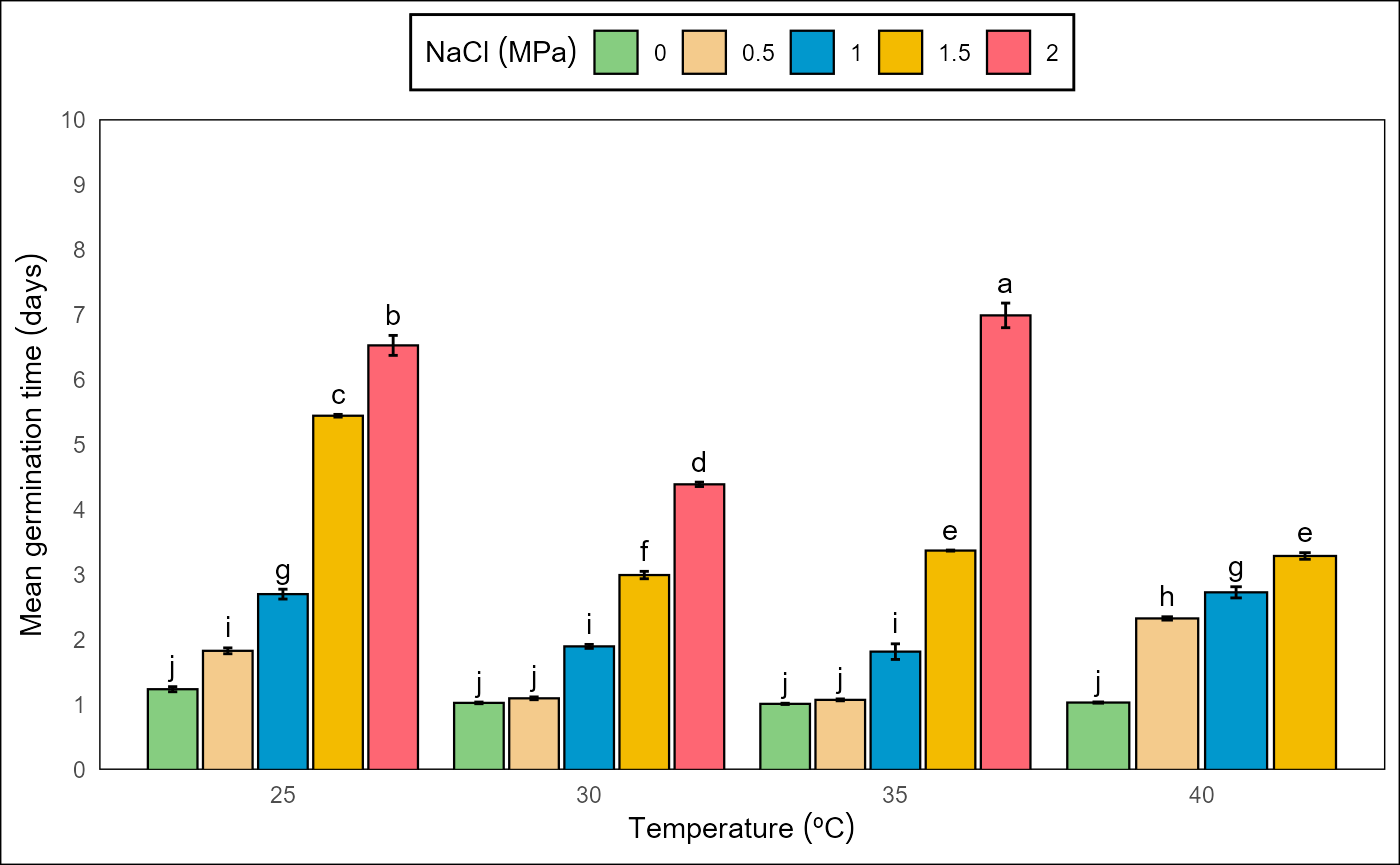
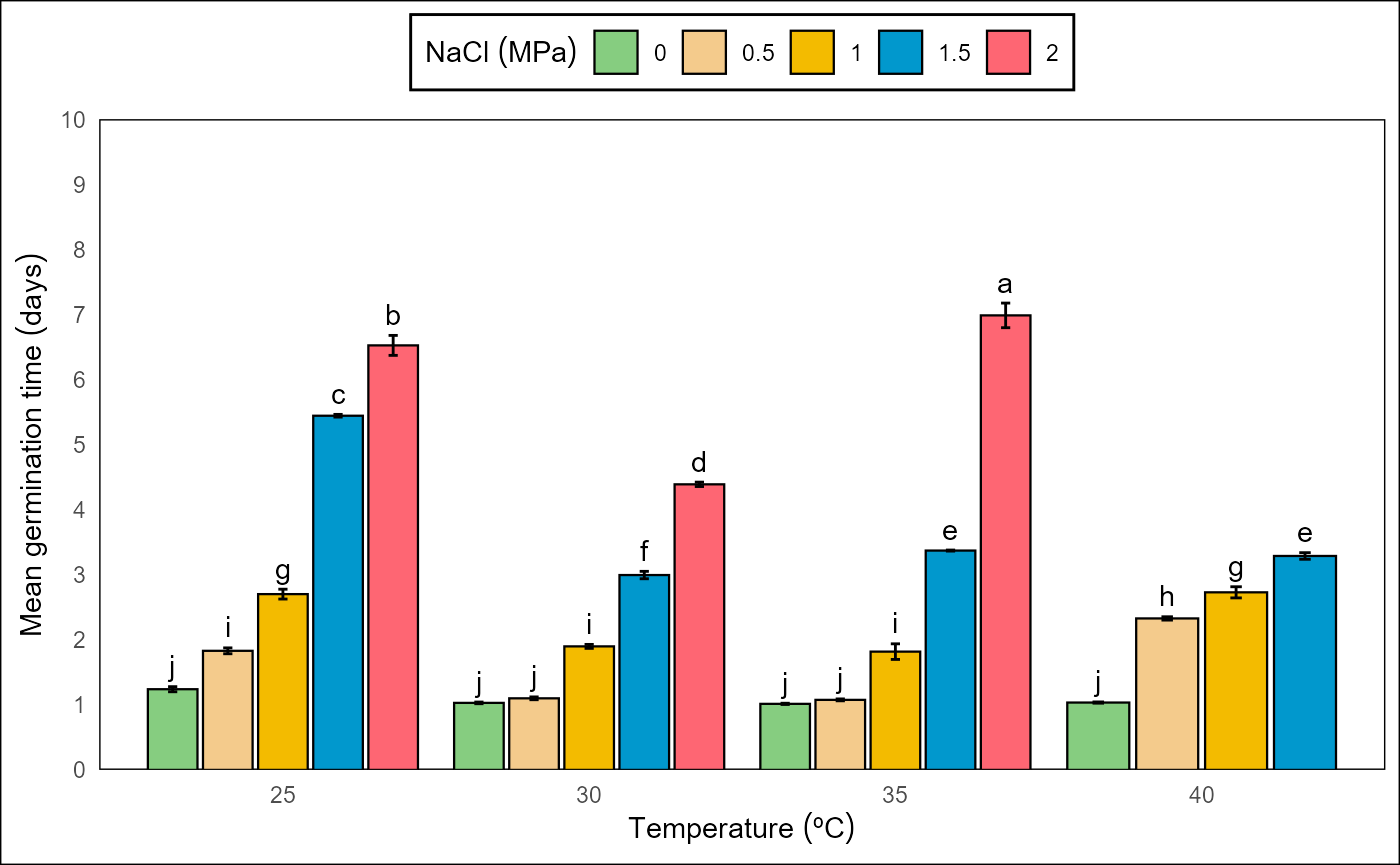
cran checks

diff --git a/docs/articles/GerminaR.html b/docs/articles/GerminaR.html
@@ -163,11 +163,12 @@
 <code class="sourceCode R"><span class="co"># Install packages and dependencies</span>
 
 <span class="kw"><a href="https://rdrr.io/r/base/library.html">library</a></span><span class="op">(</span><span class="va"><a href="http://germinar.inkaverse.com/">GerminaR</a></span><span class="op">)</span>
+<span class="kw"><a href="https://rdrr.io/r/base/library.html">library</a></span><span class="op">(</span><span class="va"><a href="https://dplyr.tidyverse.org">dplyr</a></span><span class="op">)</span>
 
 <span class="co"># load data</span>
 
 <span class="va">fb</span> <span class="op">&lt;-</span> <span class="va">prosopis</span> <span class="op">%&gt;%</span> 
-   <span class="fu">dplyr</span><span class="fu">::</span><span class="fu"><a href="https://dplyr.tidyverse.org/reference/mutate.html">mutate</a></span><span class="op">(</span><span class="fu"><a href="https://dplyr.tidyverse.org/reference/across.html">across</a></span><span class="op">(</span><span class="fu"><a href="https://rdrr.io/r/base/c.html">c</a></span><span class="op">(</span><span class="va">nacl</span>, <span class="va">temp</span>, <span class="va">rep</span><span class="op">)</span>, <span class="va">as.factor</span><span class="op">)</span><span class="op">)</span>
+   <span class="fu"><a href="https://dplyr.tidyverse.org/reference/mutate.html">mutate</a></span><span class="op">(</span><span class="fu"><a href="https://dplyr.tidyverse.org/reference/across.html">across</a></span><span class="op">(</span><span class="fu"><a href="https://rdrr.io/r/base/c.html">c</a></span><span class="op">(</span><span class="va">nacl</span>, <span class="va">temp</span>, <span class="va">rep</span><span class="op">)</span>, <span class="va">as.factor</span><span class="op">)</span><span class="op">)</span>
 
 <span class="co"># Prosopis data set</span>
 
@@ -383,7 +384,7 @@
 <span class="va">gsm</span> <span class="op">%&gt;%</span> 
   <span class="fu"><a href="https://rdrr.io/r/utils/head.html">head</a></span><span class="op">(</span><span class="fl">10</span><span class="op">)</span> <span class="op">%&gt;%</span> 
   <span class="fu"><a href="https://dplyr.tidyverse.org/reference/mutate.html">mutate</a></span><span class="op">(</span><span class="fu"><a href="https://dplyr.tidyverse.org/reference/across.html">across</a></span><span class="op">(</span><span class="fu">where</span><span class="op">(</span><span class="va">is.numeric</span><span class="op">)</span>, <span class="op">~</span><span class="fu"><a href="https://rdrr.io/r/base/Round.html">round</a></span><span class="op">(</span><span class="va">.</span>, <span class="fl">2</span><span class="op">)</span><span class="op">)</span><span class="op">)</span> <span class="op">%&gt;%</span> 
-   <span class="fu">kable</span><span class="op">(</span>caption <span class="op">=</span> <span class="st">"Function ger_summary performe ten germination indices"</span><span class="op">)</span></code></pre></div>
+  <span class="fu">kable</span><span class="op">(</span>caption <span class="op">=</span> <span class="st">"Function ger_summary performe ten germination indices"</span><span class="op">)</span></code></pre></div>
 <table class="table">
 <caption>Function ger_summary performe ten germination indices</caption>
 <thead><tr class="header">

diff --git a/docs/reference/fplot.html b/docs/reference/fplot.html
@@ -271,7 +271,7 @@
     </tr>
     <tr>
       <th>color</th>
-      <td><p>colored figure (TRUE), otherwise black &amp; white (FALSE)</p></td>
+      <td><p>colored figure c(TRUE, FALSE) or vector with the color.</p></td>
     </tr>
     <tr>
       <th>opt</th>
@@ -304,29 +304,16 @@
 <span class='va'>plotdt</span> <span class='op'>&lt;-</span> <span class='va'>mc</span><span class='op'>$</span><span class='va'>table</span>
                     
  <span class='fu'>fplot</span><span class='op'>(</span>data <span class='op'>=</span> <span class='va'>plotdt</span>
-       , type <span class='op'>=</span> <span class='st'>"line"</span>
+       , type <span class='op'>=</span> <span class='st'>"bar"</span>
        , x <span class='op'>=</span> <span class='st'>"temp"</span>
        , y <span class='op'>=</span> <span class='st'>"grp"</span>
        , group <span class='op'>=</span> <span class='st'>"nacl"</span>
-       , sig <span class='op'>=</span> <span class='st'>"sig"</span>
+       , sig <span class='op'>=</span> <span class='st'>"grp"</span>
        , error <span class='op'>=</span> <span class='st'>"ste"</span>
-       , color <span class='op'>=</span> <span class='cn'>F</span>
+       , color <span class='op'>=</span> <span class='cn'>T</span>
        , ylimits <span class='op'>=</span> <span class='fu'><a href='https://rdrr.io/r/base/c.html'>c</a></span><span class='op'>(</span><span class='fl'>0</span>, <span class='fl'>120</span>, <span class='fl'>20</span><span class='op'>)</span>
-       , xtext <span class='op'>=</span> <span class='fu'><a href='https://rdrr.io/r/base/c.html'>c</a></span><span class='op'>(</span><span class='fl'>1</span><span class='op'>:</span><span class='fl'>5</span><span class='op'>)</span>
-       , gtext <span class='op'>=</span> <span class='fu'><a href='https://rdrr.io/r/base/c.html'>c</a></span><span class='op'>(</span><span class='fl'>1</span><span class='op'>:</span><span class='fl'>5</span><span class='op'>)</span>
        <span class='op'>)</span>
        
- <span class='fu'>fplot</span><span class='op'>(</span>data <span class='op'>=</span> <span class='va'>plotdt</span>
-       , type <span class='op'>=</span> <span class='st'>"li"</span>
-       , x <span class='op'>=</span> <span class='st'>"temp"</span>
-       , y <span class='op'>=</span> <span class='st'>"grp"</span>
-       , group <span class='op'>=</span> <span class='st'>"nacl"</span>
-       , sig <span class='op'>=</span> <span class='st'>"sig"</span>
-       , error <span class='op'>=</span> <span class='st'>"ste"</span>
-       , color <span class='op'>=</span> <span class='cn'>F</span>
-       , ylimits <span class='op'>=</span> <span class='fu'><a href='https://rdrr.io/r/base/c.html'>c</a></span><span class='op'>(</span><span class='fl'>0</span>, <span class='fl'>120</span>, <span class='fl'>20</span><span class='op'>)</span>
-       <span class='op'>)</span>
-                   
 <span class='op'>}</span> 
 
 </div></pre>

diff --git a/docs/news/index.html b/docs/news/index.html
@@ -189,7 +189,12 @@
 <em>Package</em>
 <ul>
 <li>
-<code><a href="../reference/fplot.html">fplot()</a></code> absolute values to ybrakes</li>
+<code><a href="../reference/fplot.html">fplot()</a></code>
+<ul>
+<li>Absolute values to ybrakes</li>
+<li>Include color using vectors</li>
+</ul>
+</li>
 <li>Added function <code><a href="../reference/textcolor.html">textcolor()</a></code>
 </li>
 </ul>
@@ -197,9 +202,10 @@
 <li>
 <em>GerminaQuant</em>
 <ul>
-<li>Styled messages</li>
-<li>Include multiple layers</li>
-<li>Exclude the error bar in the plots</li>
+<li>Styled messages in the console</li>
+<li>Include multiple layers in the graphs</li>
+<li>Possibility to exclude the error bar in the plots</li>
+<li>Include demo videos for the app</li>
 </ul>
 </li>
 </ul>
@@ -232,7 +238,6 @@
 <li>
 <em>GerminaQuant</em>
 <ul>
-<li>Include demo videos for the app</li>
 <li>Suppress error messages in console when run the app</li>
 <li>Change dependency: <code>ggpubr</code> –&gt; <code>cowplot</code>
 </li>

diff --git a/NEWS.md b/NEWS.md
@@ -1,13 +1,16 @@
 # Version 2.1.2
 
 - *Package*
-  - `fplot()` absolute values to ybrakes
+  - `fplot()` 
+    - Absolute values to ybrakes
+    - Include color using vectors
   - Added function `textcolor()`
   
 - *GerminaQuant*
-  - Styled messages
-  - Include multiple layers
-  - Exclude the error bar in the plots
+  - Styled messages in the console
+  - Include multiple layers in the graphs
+  - Possibility to exclude the error bar in the plots
+  - Include demo videos for the app
   
 # Version 2.1.1
 
@@ -23,7 +26,6 @@ Changes incompatible with the old versions. Arguments changed in the syntax for 
     - Allow add new layer. e.g. `coord_flip()`
 
 - *GerminaQuant*
-  - Include demo videos for the app
   - Suppress error messages in console when run the app
   - Change dependency: `ggpubr` --> `cowplot`
   - Exclude filter in the app
